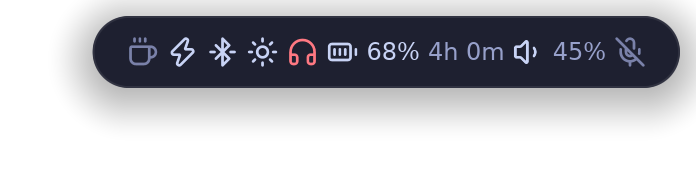
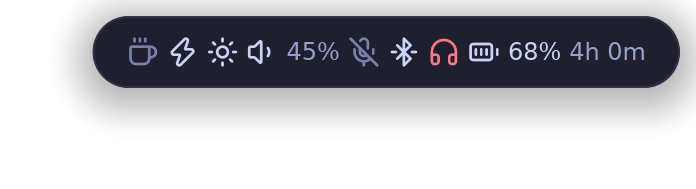
docs(experimental): the settings items' picture in ashell's order
The picture's status zone now reads as the default one does, the battery's
items last: the idle inhibitor, the power profile and the brightness, then
the volume and the microphone, Bluetooth, and the batteries.

Changed region(s): [[0.3017, 0.1852, 0.9353, 0.3439]]

diff --git a/experimental/ashell-experimental/src/bar/snapshots.rs b/experimental/ashell-experimental/src/bar/snapshots.rs
@@ -427,13 +427,13 @@ end     = ["status"]
 items = [
     { item = "idle_inhibitor", show = "always" },
     { item = "power_profile", show = "always" },
-    "bluetooth",
     { item = "brightness", show = "always" },
+    { item = "volume", show = "always", style = "icon-value" },
+    "microphone",
+    "bluetooth",
     "peripheral_battery",
     "battery",
     "battery_time",
-    { item = "volume", show = "always", style = "icon-value" },
-    "microphone",
 ]
 
 [settings]

diff --git a/experimental/website/content/docs/rolling/configuration/settings.md b/experimental/website/content/docs/rolling/configuration/settings.md
@@ -18,7 +18,7 @@ items = [
 ]
 ```
 
-{{ <picture name="settings/settings-items" alt="The settings items: the idle inhibitor, the power profile, Bluetooth with a device connected, the brightness, the headphones' battery, the laptop's with the time it has left, the volume and the muted microphone" width="348" height="95" /> }}
+{{ <picture name="settings/settings-items" alt="The settings items: the idle inhibitor, the power profile, the brightness, the volume, the muted microphone, Bluetooth with a device connected, the headphones' battery and the laptop's with the time it has left" width="348" height="95" /> }}
 
 ## `[settings]`
 
